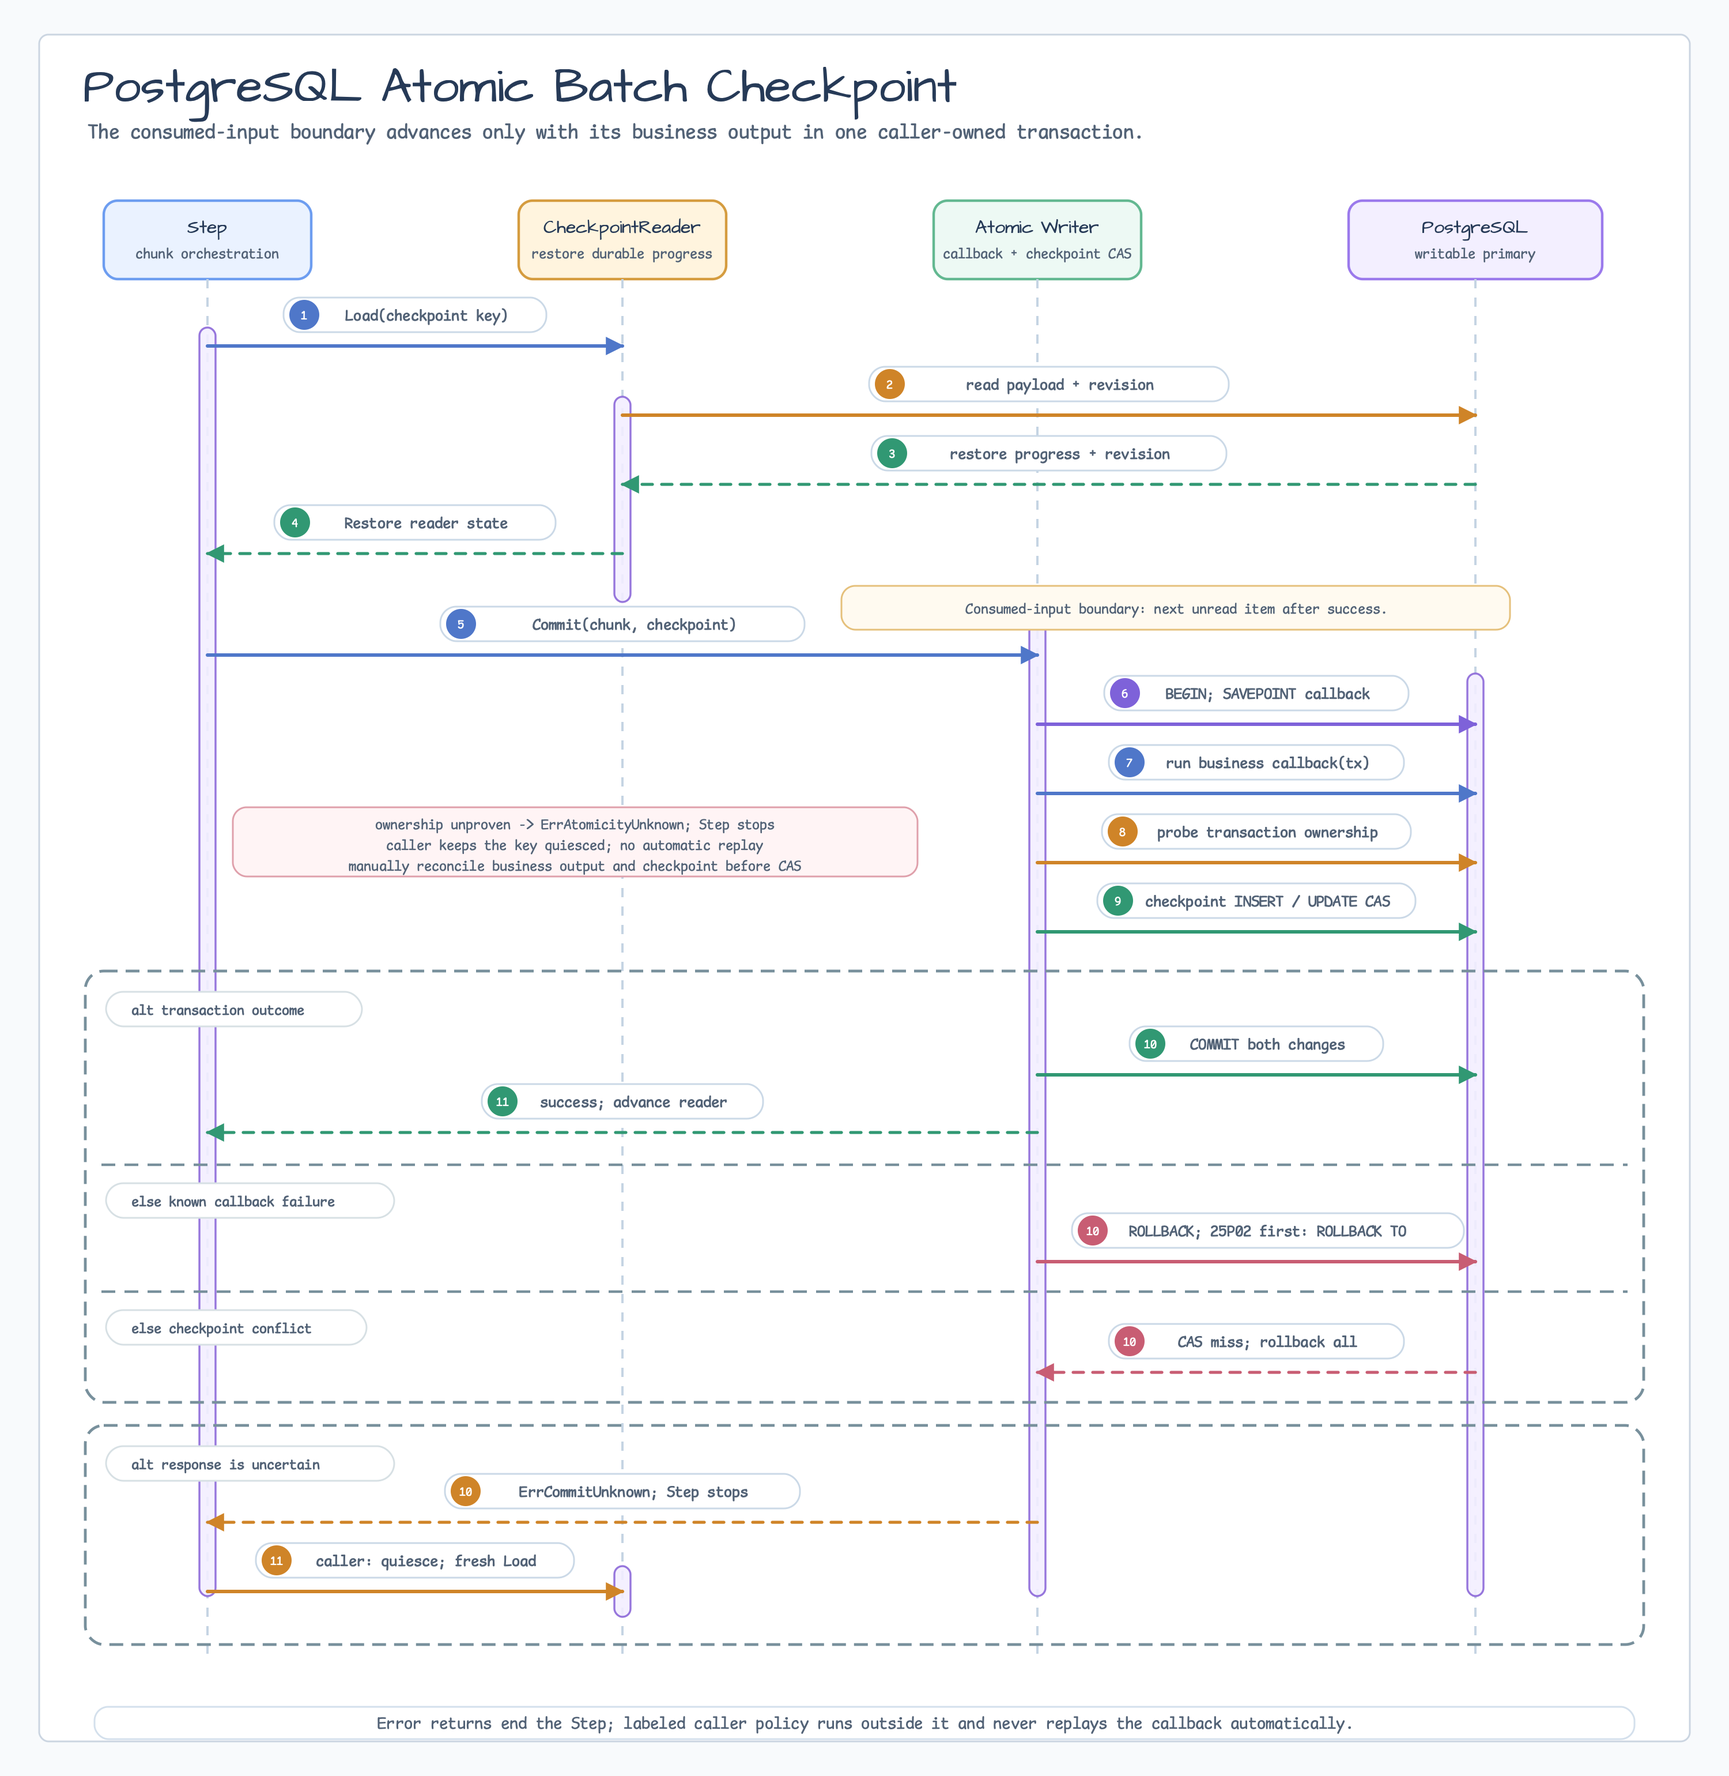
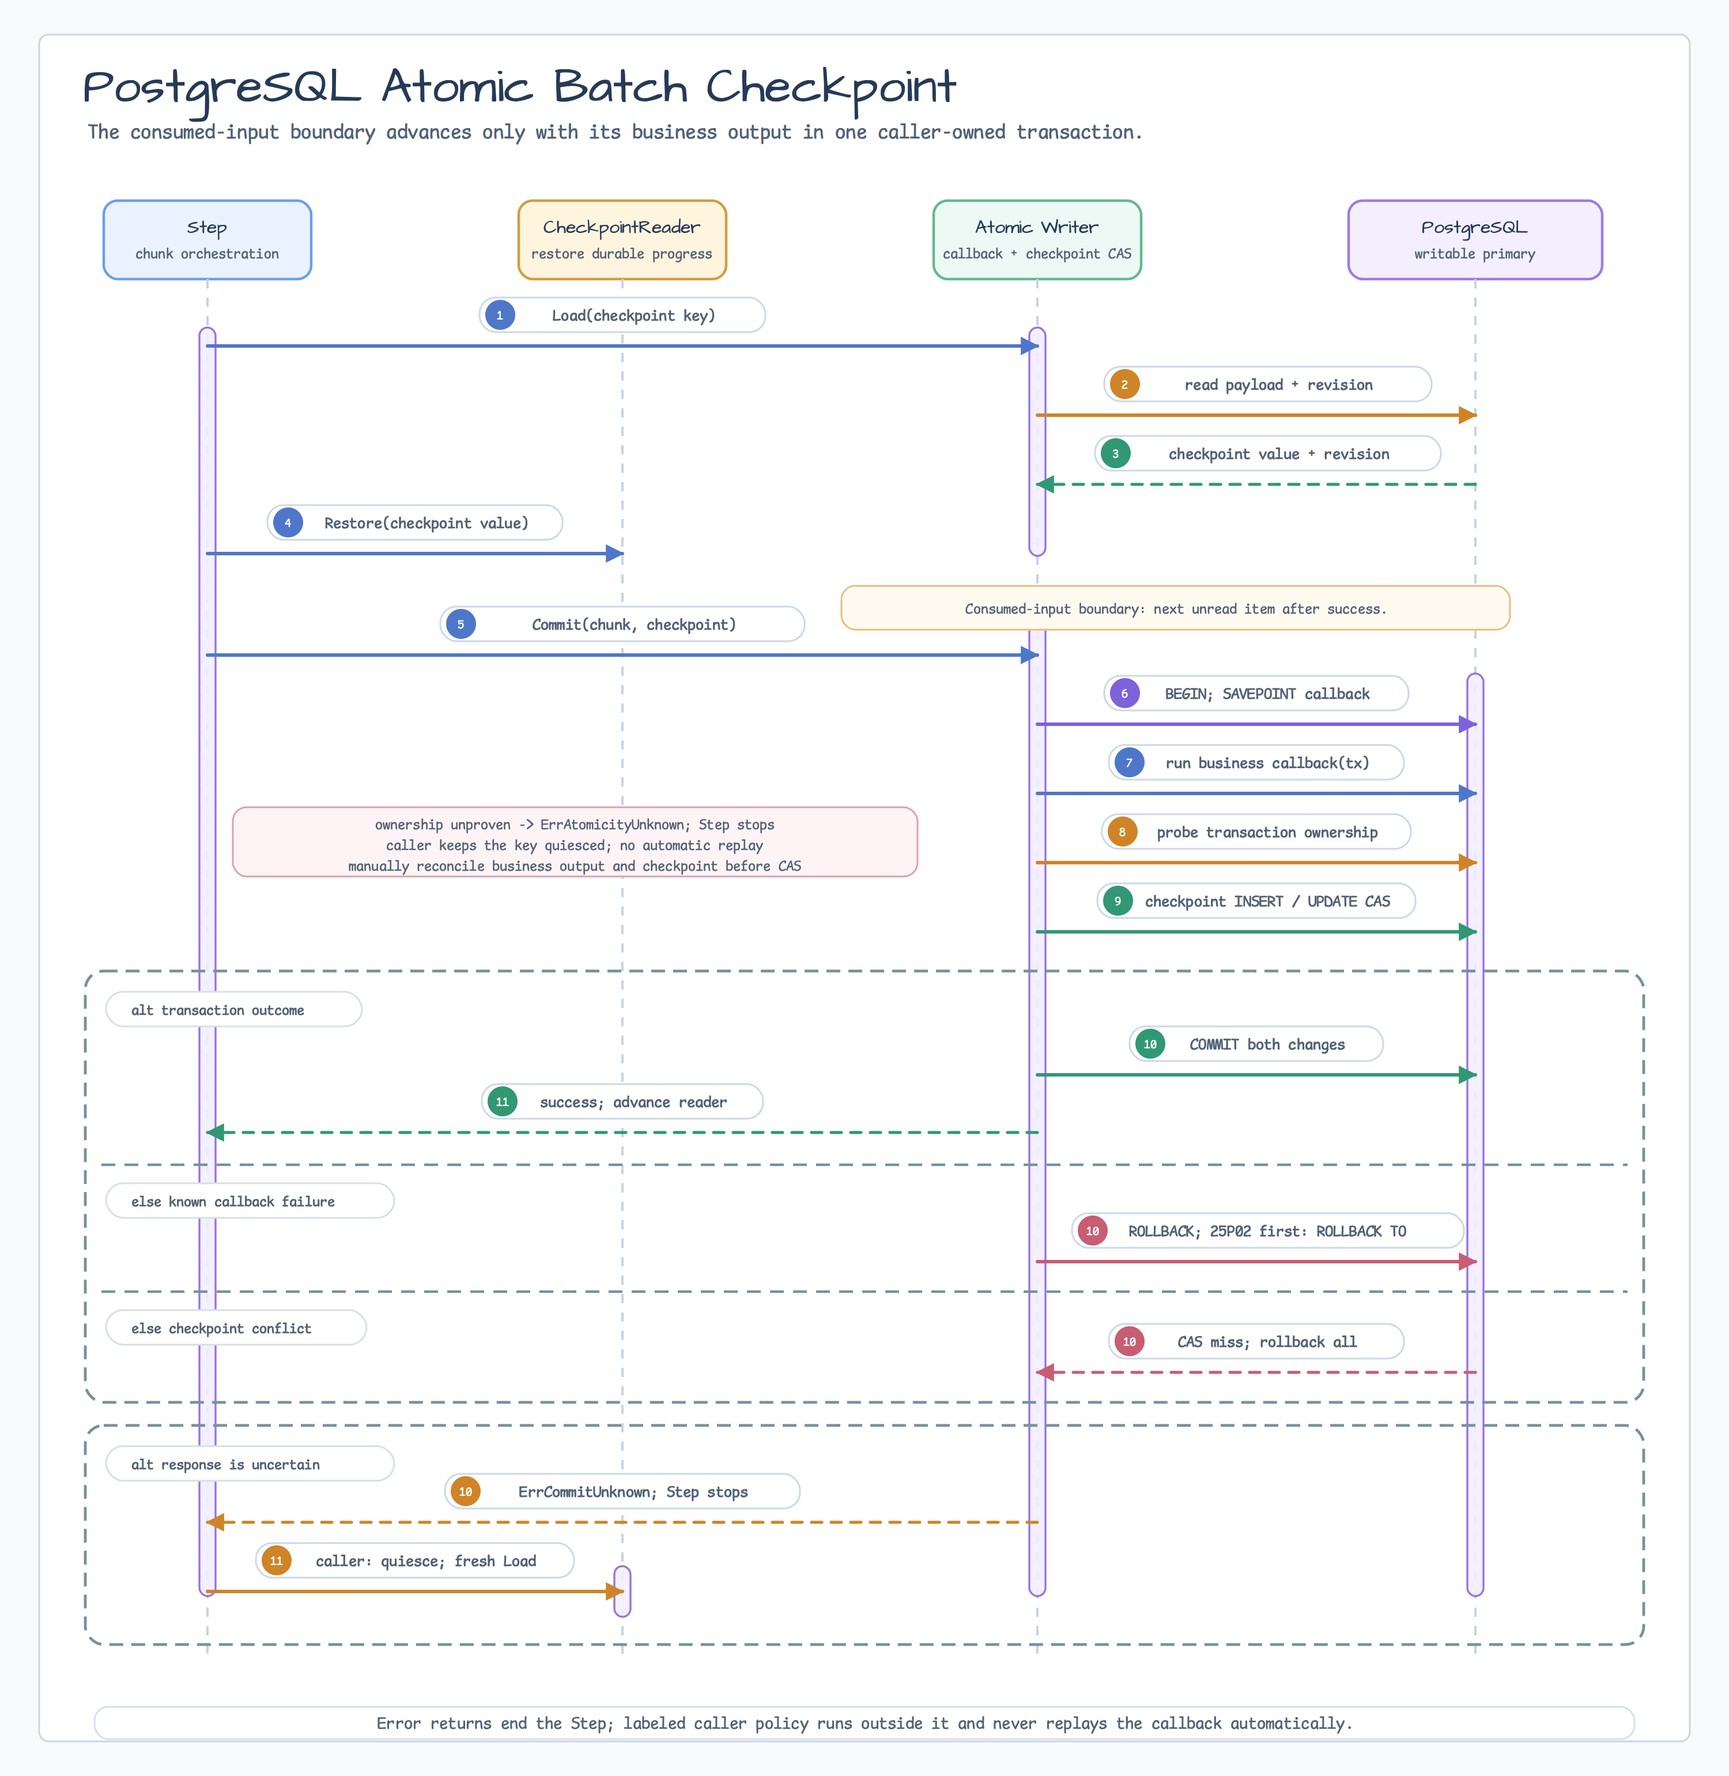
fix: clarify SQL checkpoint caller contract

diff --git a/batch/sqlcheckpoint/commit.go b/batch/sqlcheckpoint/commit.go
@@ -69,7 +69,7 @@ func (w *Writer[T, C]) Commit(
 
 	tx, err := w.beginTx(ctx)
 	if err != nil {
-		return 0, newOperationError("begin", w.options.namespace, rawKey, err)
+		return 0, newOperationError(OperationBegin, w.options.namespace, rawKey, err)
 	}
 	finished := false
 	rollback := func() error {
@@ -87,7 +87,7 @@ func (w *Writer[T, C]) Commit(
 
 	if len(items) > 0 {
 		if _, err = tx.ExecContext(ctx, savepointSQL); err != nil {
-			return 0, w.rollbackOperation(tx, rollback, "savepoint", rawKey, err)
+			return 0, w.rollbackOperation(tx, rollback, OperationSavepoint, rawKey, err)
 		}
 
 		panicValue, panicked, callbackErr := invokeCallback(ctx, w.write, guardedSession{session: tx}, items)
@@ -108,7 +108,7 @@ func (w *Writer[T, C]) Commit(
 			if contextErr := ctx.Err(); contextErr != nil {
 				cause = errors.Join(cause, contextErr)
 			}
-			opErr := w.rollbackOperation(tx, rollback, "ownership probe", rawKey, cause)
+			opErr := w.rollbackOperation(tx, rollback, OperationOwnershipProbe, rawKey, cause)
 			joined := []error{opErr, batch.ErrAtomicityUnknown, batch.ErrCommitUnknown}
 			if probe.contractViolation {
 				joined = append(joined, ErrCallbackContractViolation)
@@ -117,10 +117,10 @@ func (w *Writer[T, C]) Commit(
 		}
 
 		if callbackErr != nil || probe.err != nil {
-			operation := "callback"
+			operation := OperationCallback
 			cause := callbackErr
 			if callbackErr == nil {
-				operation = "ownership probe"
+				operation = OperationOwnershipProbe
 				cause = probe.err
 			} else if probe.err != nil {
 				cause = errors.Join(callbackErr, probe.err)
@@ -143,7 +143,7 @@ func (w *Writer[T, C]) Commit(
 		return 0, w.rollbackKnown(tx, rollback, rawKey, batch.ErrCheckpointConflict)
 	}
 	if err != nil {
-		return 0, w.rollbackOperation(tx, rollback, "checkpoint", rawKey, err)
+		return 0, w.rollbackOperation(tx, rollback, OperationCheckpoint, rawKey, err)
 	}
 	if err = ctx.Err(); err != nil {
 		return 0, w.rollbackKnown(tx, rollback, rawKey, err)
@@ -156,7 +156,7 @@ func (w *Writer[T, C]) Commit(
 		if contextErr := ctx.Err(); contextErr != nil {
 			cause = errors.Join(err, contextErr)
 		}
-		opErr := newOperationError("commit", w.options.namespace, rawKey, cause)
+		opErr := newOperationError(OperationCommit, w.options.namespace, rawKey, cause)
 		var serverErr *pgconn.PgError
 		if errors.As(err, &serverErr) || errors.Is(err, pgx.ErrTxCommitRollback) {
 			return 0, opErr
@@ -203,7 +203,7 @@ func (w *Writer[T, C]) rollbackKnown(
 	if rollbackErr == nil {
 		return cause
 	}
-	return newOperationError("rollback", w.options.namespace, rawKey, errors.Join(cause, rollbackErr))
+	return newOperationError(OperationRollback, w.options.namespace, rawKey, errors.Join(cause, rollbackErr))
 }
 
 func invokeCallback[T any](

diff --git a/batch/sqlcheckpoint/readme_test.go b/batch/sqlcheckpoint/readme_test.go
@@ -37,9 +37,14 @@ func TestReadmeContract(t *testing.T) {
 			"WITH INHERIT FALSE, SET TRUE, ADMIN FALSE",
 			"inbound and outbound role membership",
 			"not an authorization boundary",
+			"Read Committed",
+			"ambient isolation",
+			"safe for concurrent use",
+			"report.Err",
+			"sqlcheckpoint.OperationCommit",
 			"preflight before runtime grants",
 			"*sqlcheckpoint.OpError",
-			`Operation() == "commit"`,
+			"Operation() == sqlcheckpoint.OperationCommit",
 			"errors.As",
 			"public schema ownership prerequisite",
 			"ALTER SCHEMA public OWNER TO sqlcheckpoint_migration_owner",
@@ -76,9 +81,14 @@ func TestReadmeContract(t *testing.T) {
 			"WITH INHERIT FALSE, SET TRUE, ADMIN FALSE",
 			"inbound/outbound `role membership 없음`",
 			"authorization 경계가 아닙니다",
+			"Read Committed",
+			"ambient isolation",
+			"concurrent-safe",
+			"report.Err",
+			"sqlcheckpoint.OperationCommit",
 			"runtime grant 전 preflight",
 			"*sqlcheckpoint.OpError",
-			`Operation() == "commit"`,
+			"Operation() == sqlcheckpoint.OperationCommit",
 			"errors.As",
 			"public schema ownership prerequisite",
 			"ALTER SCHEMA public OWNER TO sqlcheckpoint_migration_owner",
@@ -180,6 +190,7 @@ func TestReadmeHeadingParity(t *testing.T) {
 
 func TestExampleMigrationAndRecoveryOrderContract(t *testing.T) {
 	body := readContractFile(t, "example_test.go")
+	commitRecovery := body[strings.Index(body, "func ExampleWriter_commitUnknownRecovery"):]
 	assertOrderedContractMarkers(t, body, []string{
 		"verifyPublicSchemaOwnedByMigrationOwner(migrationCtx, migrationDB)",
 		"migrationDB.BeginTx(migrationCtx, nil)",
@@ -192,11 +203,29 @@ func TestExampleMigrationAndRecoveryOrderContract(t *testing.T) {
 		"migrationTx.Commit()",
 	})
 	assertOrderedContractMarkers(t, body, []string{
+		"step.Run(runCtx)",
+		"runErr := report.Err",
+		"errors.Is(runErr, batch.ErrCommitUnknown)",
+		"operationErr.Operation() == sqlcheckpoint.OperationCommit",
+		"atomicWriter.Load(freshCtx, checkpointKey)",
+	})
+	assertOrderedContractMarkers(t, commitRecovery, []string{
 		"commitCtx, commitCancel := context.WithTimeout",
 		"writer.Commit(",
 		"commitCancel()",
 		"freshCtx, cancel := context.WithTimeout",
 		"writer.Load(freshCtx, checkpointKey)",
+	})
+}
+
+func TestSequenceDiagramOwnershipContract(t *testing.T) {
+	body := readContractFile(t, "../../docs/images/readme-diagrams/postgres-batch-checkpoint-atomic-sequence.svg")
+	assertContractMarkers(t, body, []string{
+		`d="M180 300 L900 300"`,
+		`d="M900 360 L1280 360"`,
+		`d="M1280 420 L900 420"`,
+		`d="M180 480 L540 480"`,
+		"Restore(checkpoint value)",
 	})
 }
 

diff --git a/batch/sqlcheckpoint/example_test.go b/batch/sqlcheckpoint/example_test.go
@@ -39,6 +39,7 @@ func (*exampleCheckpointReader) Checkpoint(context.Context) (any, bool, error) {
 
 func ExampleNew() {
 	ctx := context.Background()
+	checkpointKey := "tenant:blue"
 
 	// A caller-owned deployer login may assume the non-login migration owner.
 	// The runtime role is never a member of either deployment role.
@@ -140,12 +141,39 @@ func ExampleNew() {
 		Reader:        &exampleCheckpointReader{},
 		Processor:     batch.IdentityProcessor[exampleOrder](),
 		AtomicWriter:  atomicWriter,
-		CheckpointKey: "tenant:blue",
+		CheckpointKey: checkpointKey,
 	})
 	if err != nil {
 		return
 	}
-	_ = step
+	defer func() {
+		recoverCheckpointPanic(checkpointKey, recover(), quiesceCheckpointKey, reconcileCheckpoint)
+	}()
+	runCtx, runCancel := context.WithTimeout(ctx, time.Minute)
+	report := step.Run(runCtx)
+	runCancel()
+	runErr := report.Err
+	if runErr == nil {
+		return
+	}
+	if errors.Is(runErr, batch.ErrAtomicityUnknown) {
+		quiesceCheckpointKey(checkpointKey)
+		reconcileCheckpoint(checkpointKey)
+		return
+	}
+	var operationErr *sqlcheckpoint.OpError
+	if errors.Is(runErr, batch.ErrCommitUnknown) &&
+		errors.As(runErr, &operationErr) &&
+		operationErr.Operation() == sqlcheckpoint.OperationCommit {
+		quiesceCheckpointKey(checkpointKey)
+		freshCtx, cancel := context.WithTimeout(context.Background(), time.Second)
+		defer cancel()
+		checkpoint, exists, loadErr := atomicWriter.Load(freshCtx, checkpointKey)
+		if loadErr != nil {
+			return
+		}
+		_, _ = checkpoint, exists
+	}
 }
 
 func ExampleWriter_commitUnknownRecovery() {
@@ -200,7 +228,7 @@ func ExampleWriter_commitUnknownRecovery() {
 	if errors.Is(commitErr, batch.ErrCommitUnknown) &&
 		!errors.Is(commitErr, batch.ErrAtomicityUnknown) &&
 		errors.As(commitErr, &operationErr) &&
-		operationErr.Operation() == "commit" {
+		operationErr.Operation() == sqlcheckpoint.OperationCommit {
 		quiesceCheckpointKey(checkpointKey)
 		// Reconciliation gets a new bounded context only after the ambiguous
 		// commit context has been cancelled.

diff --git a/batch/sqlcheckpoint/writer.go b/batch/sqlcheckpoint/writer.go
@@ -17,7 +17,8 @@ var (
 	errWriterUninitialized = errors.New("sqlcheckpoint: writer is not initialized")
 )
 
-// Codec encodes and decodes checkpoint values.
+// Codec encodes and decodes checkpoint values. Its functions must be safe for
+// concurrent use when the Writer is shared by concurrent callers.
 type Codec[C any] struct {
 	// Encode serializes one checkpoint value.
 	Encode func(C) ([]byte, error)
@@ -25,11 +26,15 @@ type Codec[C any] struct {
 	Decode func([]byte) (C, error)
 }
 
-// WriteTxFunc persists output items through a caller-defined SQL session.
+// WriteTxFunc persists output items through a caller-defined SQL session in an
+// explicit Read Committed transaction. It must be correct at that isolation
+// level and safe for concurrent use when the Writer is shared.
 type WriteTxFunc[T any] func(context.Context, sqlkit.Session, []T) error
 
 // Writer atomically persists output items and durable checkpoints in PostgreSQL.
 // A Writer must be created with New; its zero value is not initialized.
+// A Writer is safe for concurrent use when its Codec and WriteTxFunc are safe
+// for concurrent use. Calls for the same checkpoint key must still be serialized.
 type Writer[T any, C any] struct {
 	db       *sql.DB
 	options  normalizedOptions
@@ -43,6 +48,8 @@ var _ batch.AtomicCheckpointWriter[any] = (*Writer[any, any])(nil)
 
 // New validates and stores the checkpoint writer configuration without performing database I/O.
 // The caller retains ownership of db and is responsible for applying SchemaSQL.
+// Commit transactions always use Read Committed and do not inherit an ambient
+// role or database isolation default.
 func New[T any, C any](db *sql.DB, options Options, codec Codec[C], write WriteTxFunc[T]) (*Writer[T, C], error) {
 	if db == nil {
 		return nil, errNilDB

diff --git a/batch/sqlcheckpoint/errors.go b/batch/sqlcheckpoint/errors.go
@@ -9,6 +9,18 @@ import (
 	"github.com/bluetape4k/bluetape-go/batch"
 )
 
+// Stable OpError operation names for caller-side classification and bounded metrics.
+const (
+	OperationLoad           = "load"
+	OperationBegin          = "begin"
+	OperationSavepoint      = "savepoint"
+	OperationCallback       = "callback"
+	OperationOwnershipProbe = "ownership probe"
+	OperationCheckpoint     = "checkpoint"
+	OperationCommit         = "commit"
+	OperationRollback       = "rollback"
+)
+
 // ErrCallbackContractViolation indicates positive evidence that a callback ended
 // or replaced the transaction frame owned by the checkpoint writer.
 var ErrCallbackContractViolation = errors.New("sql checkpoint: callback contract violation")
@@ -57,7 +69,8 @@ func (e *OpError) Unwrap() error {
 // Family returns the low-cardinality operation family.
 func (*OpError) Family() string { return "sql checkpoint" }
 
-// Operation returns the low-cardinality operation name.
+// Operation returns one of the exported Operation constants, or "operation"
+// for an uninitialized error.
 func (e *OpError) Operation() string {
 	if e == nil || e.operation == "" {
 		return "operation"

diff --git a/batch/sqlcheckpoint/load.go b/batch/sqlcheckpoint/load.go
@@ -62,7 +62,7 @@ func (w *Writer[T, C]) Load(ctx context.Context, key string) (batch.VersionedChe
 		return batch.VersionedCheckpoint{}, false, nil
 	}
 	if err != nil {
-		return batch.VersionedCheckpoint{}, false, newOperationError("load", w.options.namespace, rawKey, err)
+		return batch.VersionedCheckpoint{}, false, newOperationError(OperationLoad, w.options.namespace, rawKey, err)
 	}
 
 	if revision <= 0 {

diff --git a/batch/sqlcheckpoint/errors_test.go b/batch/sqlcheckpoint/errors_test.go
@@ -30,6 +30,12 @@ func TestOpErrorSupportsNestedInspection(t *testing.T) {
 	}
 }
 
+func TestOperationCommitIsStable(t *testing.T) {
+	if OperationCommit != "commit" {
+		t.Fatalf("OperationCommit = %q, want commit", OperationCommit)
+	}
+}
+
 func TestCodecErrorSupportsNestedInspection(t *testing.T) {
 	cause := errors.New("hostile-codec-cause-marker")
 	err := newCodecError("decode", cause)

diff --git a/batch/sqlcheckpoint/README.md b/batch/sqlcheckpoint/README.md
@@ -188,6 +188,33 @@ step, err := batch.NewAtomicStep(batch.AtomicStepOptions[Input, Order]{
     AtomicWriter:  atomicWriter,
     CheckpointKey: "tenant:blue",
 })
+if err != nil {
+    return err
+}
+
+defer func() {
+    recoverCheckpointPanic("tenant:blue", recover())
+}()
+runCtx, runCancel := context.WithTimeout(ctx, time.Minute)
+report := step.Run(runCtx)
+runCancel()
+runErr := report.Err
+if errors.Is(runErr, batch.ErrAtomicityUnknown) {
+    quiesceCheckpointKey("tenant:blue")
+    return reconcileCheckpoint("tenant:blue")
+}
+var operationErr *sqlcheckpoint.OpError
+if errors.Is(runErr, batch.ErrCommitUnknown) &&
+    errors.As(runErr, &operationErr) &&
+    operationErr.Operation() == sqlcheckpoint.OperationCommit {
+    quiesceCheckpointKey("tenant:blue")
+    freshCtx, cancel := context.WithTimeout(context.Background(), time.Second)
+    defer cancel()
+    checkpoint, exists, loadErr := atomicWriter.Load(freshCtx, "tenant:blue")
+    // Reconcile exists/checkpoint while same-key intake remains quiesced.
+    _, _, _ = checkpoint, exists, loadErr
+}
+return runErr
 ```
 
 See [`example_test.go`](example_test.go) for compile-checked construction and
@@ -198,6 +225,12 @@ recovery examples.
 For a commit with output items, the provider creates a fixed private
 `SAVEPOINT`, calls the callback exactly once, and probes transaction ownership.
 A checkpoint-only commit skips both the callback and `SAVEPOINT`.
+
+The provider always opens an explicit **Read Committed** transaction; ambient isolation
+defaults such as Repeatable Read or Serializable are ignored. Callback business logic
+must therefore be correct at Read Committed. A `Writer` is safe for concurrent use only
+when the caller's codec and callback are safe for concurrent use; same-key runs still
+require external serialization.
 
 - Use only the tx-bound `sqlkit.Session` passed to the callback.
 - A captured `*sql.DB`, separate transaction, escaped session/items in a
@@ -277,15 +310,16 @@ duplicate a business write or advance a stale checkpoint.
 Only a provider-owned commit-unknown, and only while no other same-key actor can
 intervene, permits a fresh `Load` to establish the resume position. This branch
 requires `ErrCommitUnknown`, excludes `ErrAtomicityUnknown`, and requires
-`errors.As` to yield `*sqlcheckpoint.OpError` with `Operation() == "commit"`.
+`errors.As` to yield `*sqlcheckpoint.OpError` with
+`Operation() == sqlcheckpoint.OperationCommit`.
 A bare joined sentinel is not evidence of a provider-owned commit dispatch.
 
 ```go
 var operationErr *sqlcheckpoint.OpError
-if errors.Is(commitErr, batch.ErrCommitUnknown) &&
-    !errors.Is(commitErr, batch.ErrAtomicityUnknown) &&
-    errors.As(commitErr, &operationErr) &&
-    operationErr.Operation() == "commit" {
+if errors.Is(runErr, batch.ErrCommitUnknown) &&
+    !errors.Is(runErr, batch.ErrAtomicityUnknown) &&
+    errors.As(runErr, &operationErr) &&
+    operationErr.Operation() == sqlcheckpoint.OperationCommit {
     quiesceCheckpointKey(checkpointKey)
     checkpoint, exists, err := atomicWriter.Load(freshCtx, checkpointKey)
     // Reconcile exists/checkpoint while same-key intake remains quiesced.
@@ -350,6 +384,8 @@ drills, telemetry, canary promotion, rollback, and retention.
 - Use one writable PostgreSQL primary with connection-level transaction
   affinity. Read replicas, multi-primary, statement/transaction replay proxies,
   and transaction-pooling proxies that break affinity are unsupported.
+- Commit always uses explicit Read Committed isolation rather than the ambient
+  role/database default; validate callback invariants at that isolation.
 - The caller configures bounded run/commit contexts and chunk sizes plus
   `lock_timeout`, `statement_timeout`, and
   `idle_in_transaction_session_timeout`.
